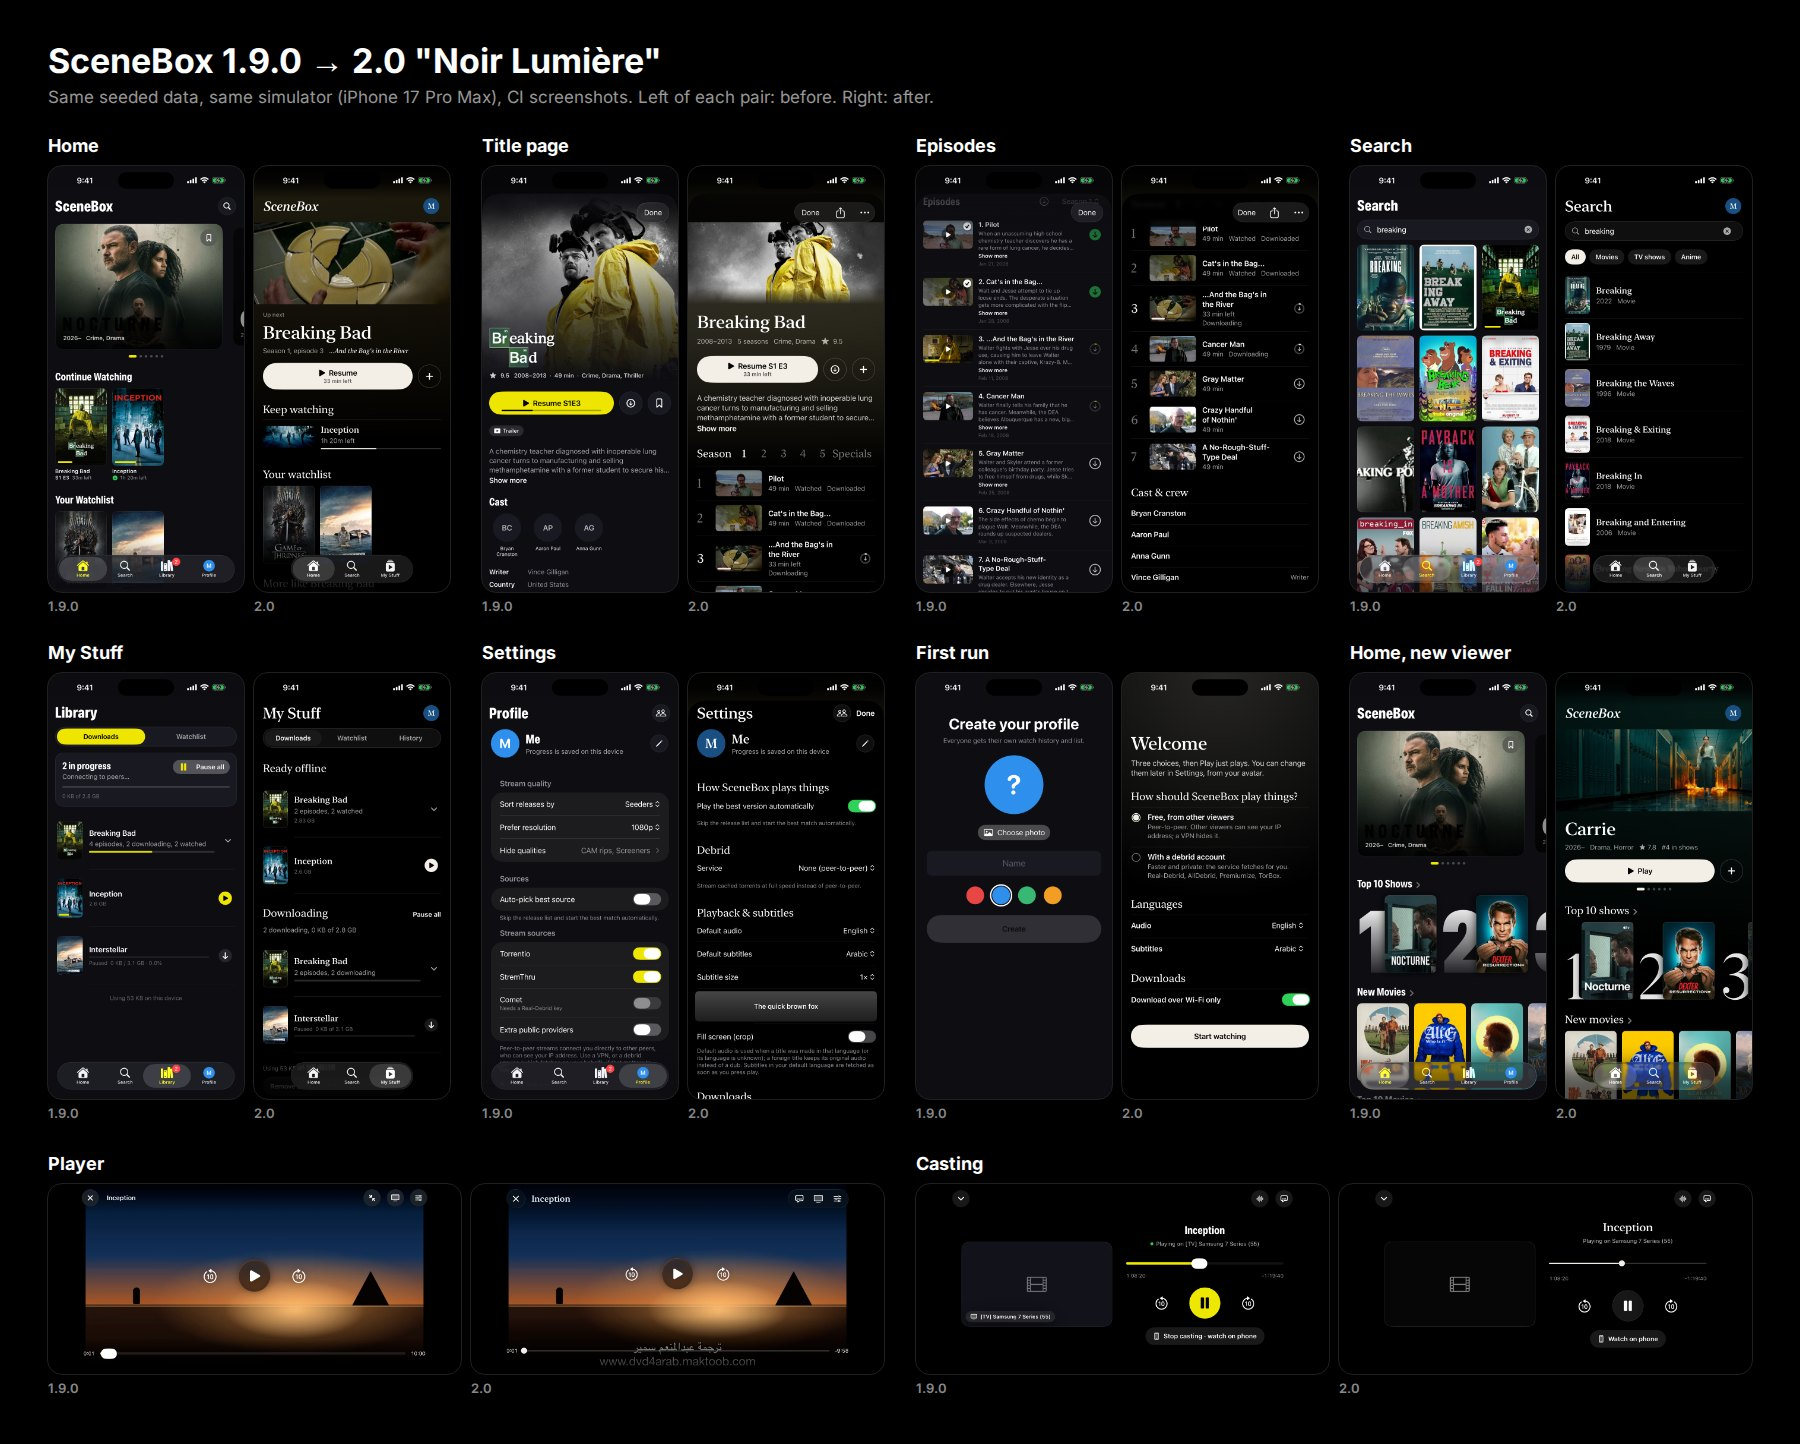
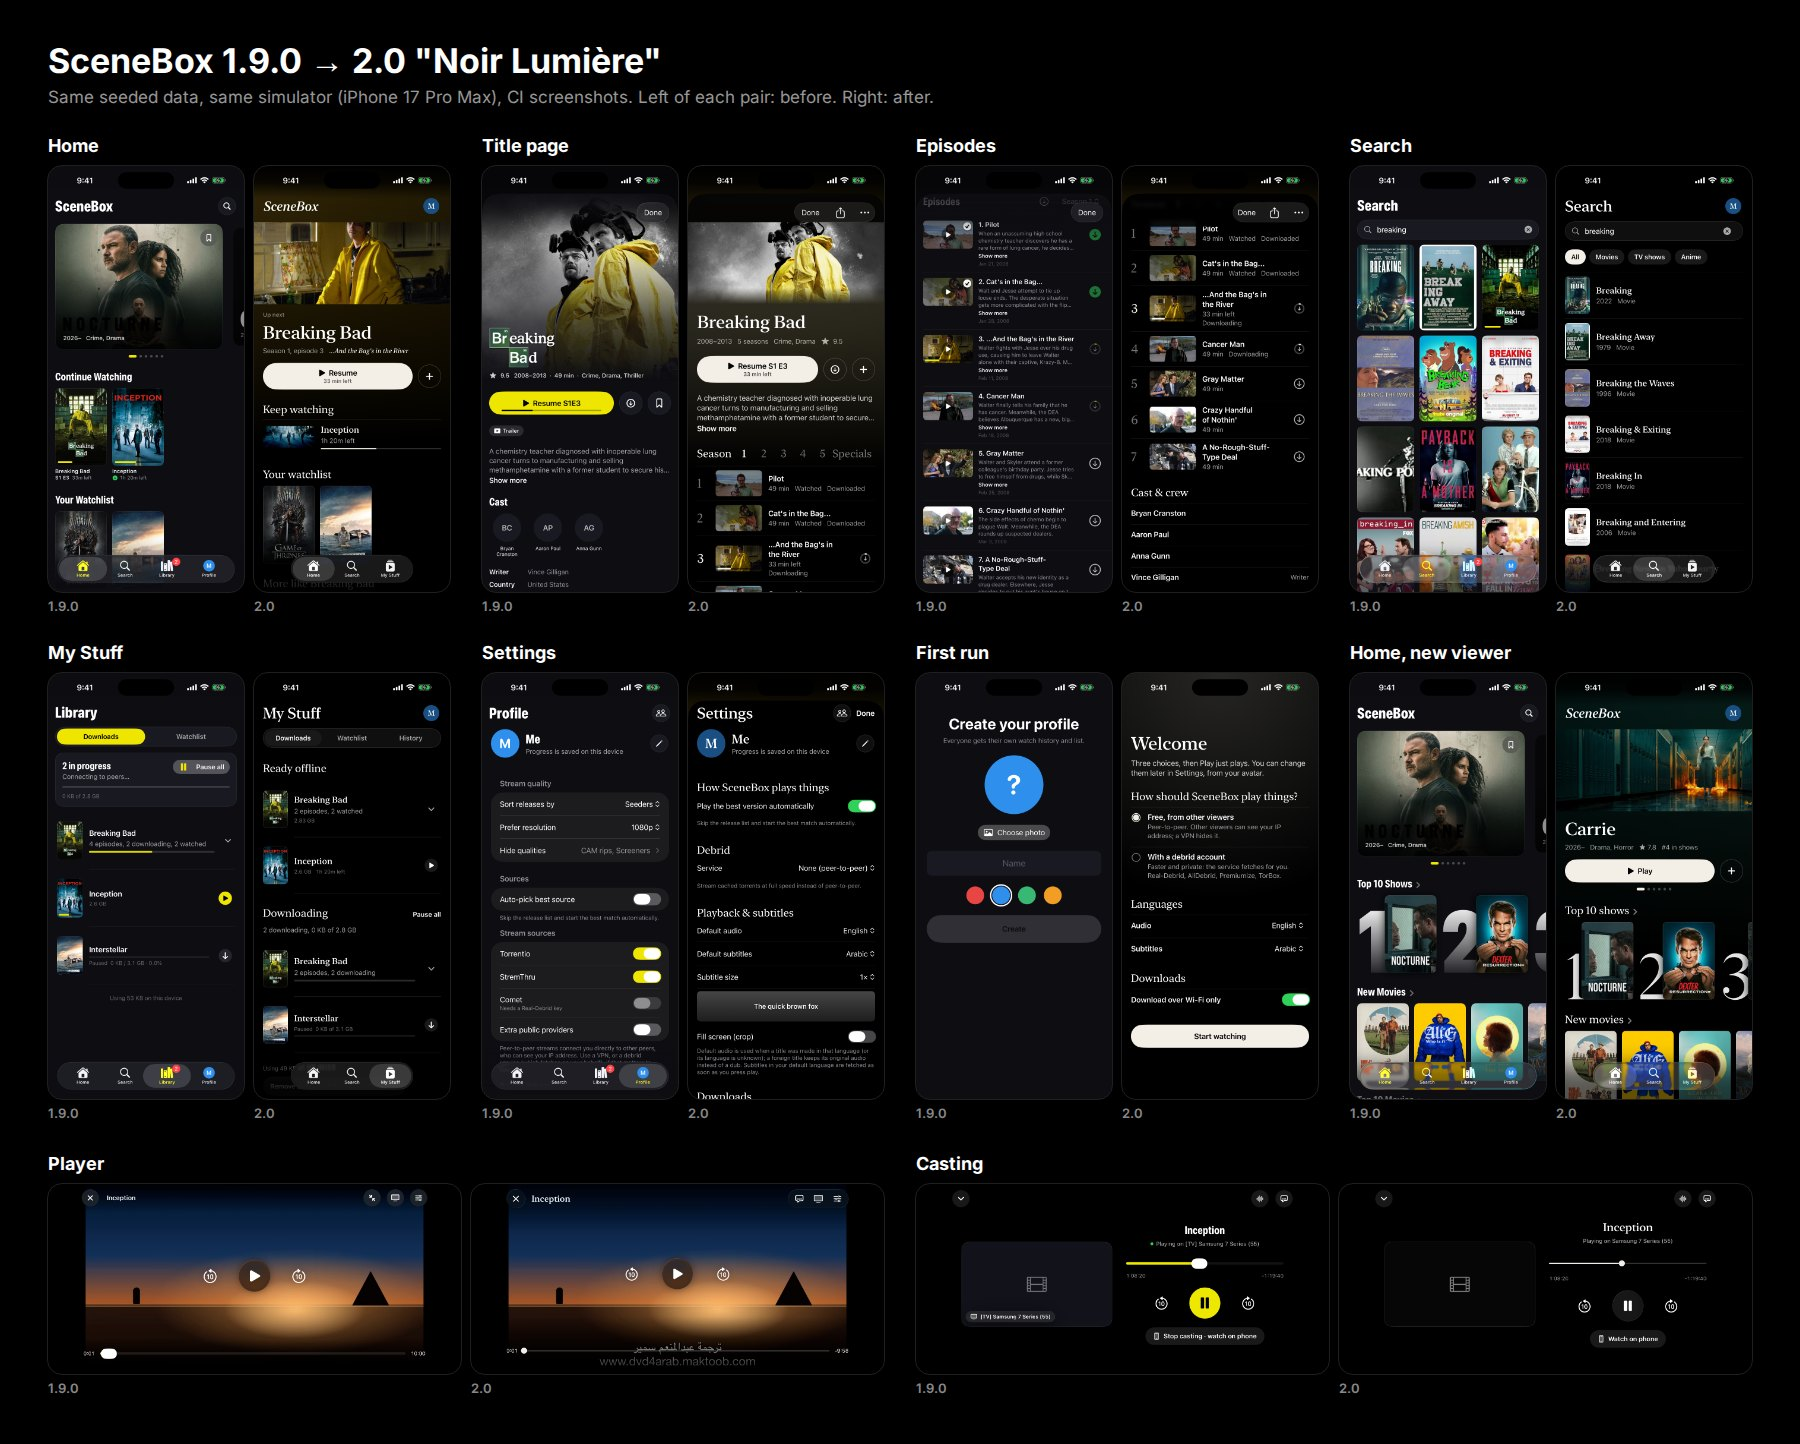
Before/after sheet from the final 2.0.0 build's screenshots

diff --git a/docs/redesign/README.md b/docs/redesign/README.md
@@ -30,7 +30,7 @@ The bar for each screen:
 | Home | 3 | 9.0 | yes | none |
 | Title page | 4 | 8.8 | yes | Episode hairlines now stop at the gutter (fixed after the last round). |
 | Search | 4 (cap) | 8.8 | yes | Fixed after the last round, not re-judged: a new query clears the old rows, and slow catalogs show "Still searching". Left: no hint that TV shows are still loading. |
-| My Stuff | 4 (cap) | 8.6 | yes | Fixed after the last round, not re-judged: play buttons are quiet, the resume point is in words ("2.6 GB   33 min left"), episode codes are in SF Pro, the bars line up. Left: the summary doesn't count paused downloads, and expanded shows sit on grey. |
+| My Stuff | 4 (cap) | 8.6 | yes | Fixed after the last round, not re-judged: play buttons are quiet, the resume point is in words ("2.6 GB   1h 20m left"), episode codes are in SF Pro, the bars line up. Left: the summary doesn't count paused downloads, and expanded shows sit on grey. |
 | Player | 4 (cap) | 8.7 | partly | Subtitles can't be lifted above the scrubber because the SwiftVLC source isn't vendored, so a stronger scrim is used instead. |
 | Cast | 3 | 9.0 | yes | none |
 | Settings | 4 (cap) | 8.5 | yes | Fixed after the last round, not re-judged: the subtitle preview sits on the 20 pt gutter. Left: the footers run 4 to 8 lines. |
